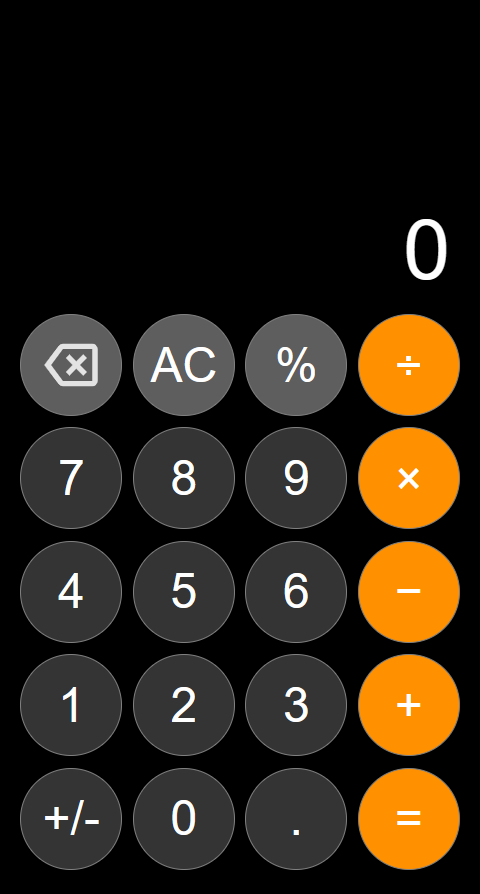
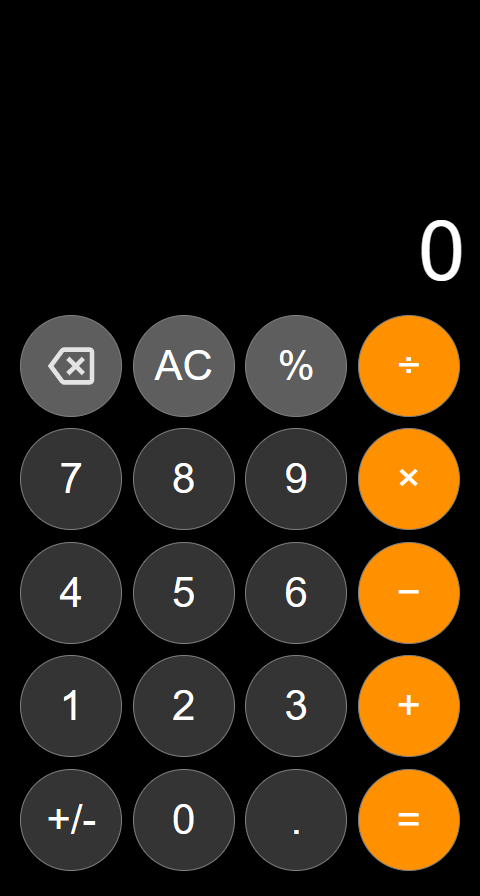
fix: change font size

diff --git a/style.css b/style.css
@@ -24,7 +24,7 @@ body {
 
 .screen > span {
     margin: 0;
-    right: 20px;
+    right: 10px;
     bottom: 0;
     position: absolute;
     font-size: 56px;
@@ -46,7 +46,7 @@ body {
     justify-self: center;
     color: #ffffff;
     border: 1px solid grey;
-    font-size: 32px;
+    font-size: 28px;
 }
 
 .btn-light-grey {
@@ -64,8 +64,8 @@ body {
 }
 
 .btn-light-grey > img {
-    width: 64%;
-    height: 64%;
+    width: 56%;
+    height: 56%;
     object-fit: contain;
     display: block; 
     margin: auto;
